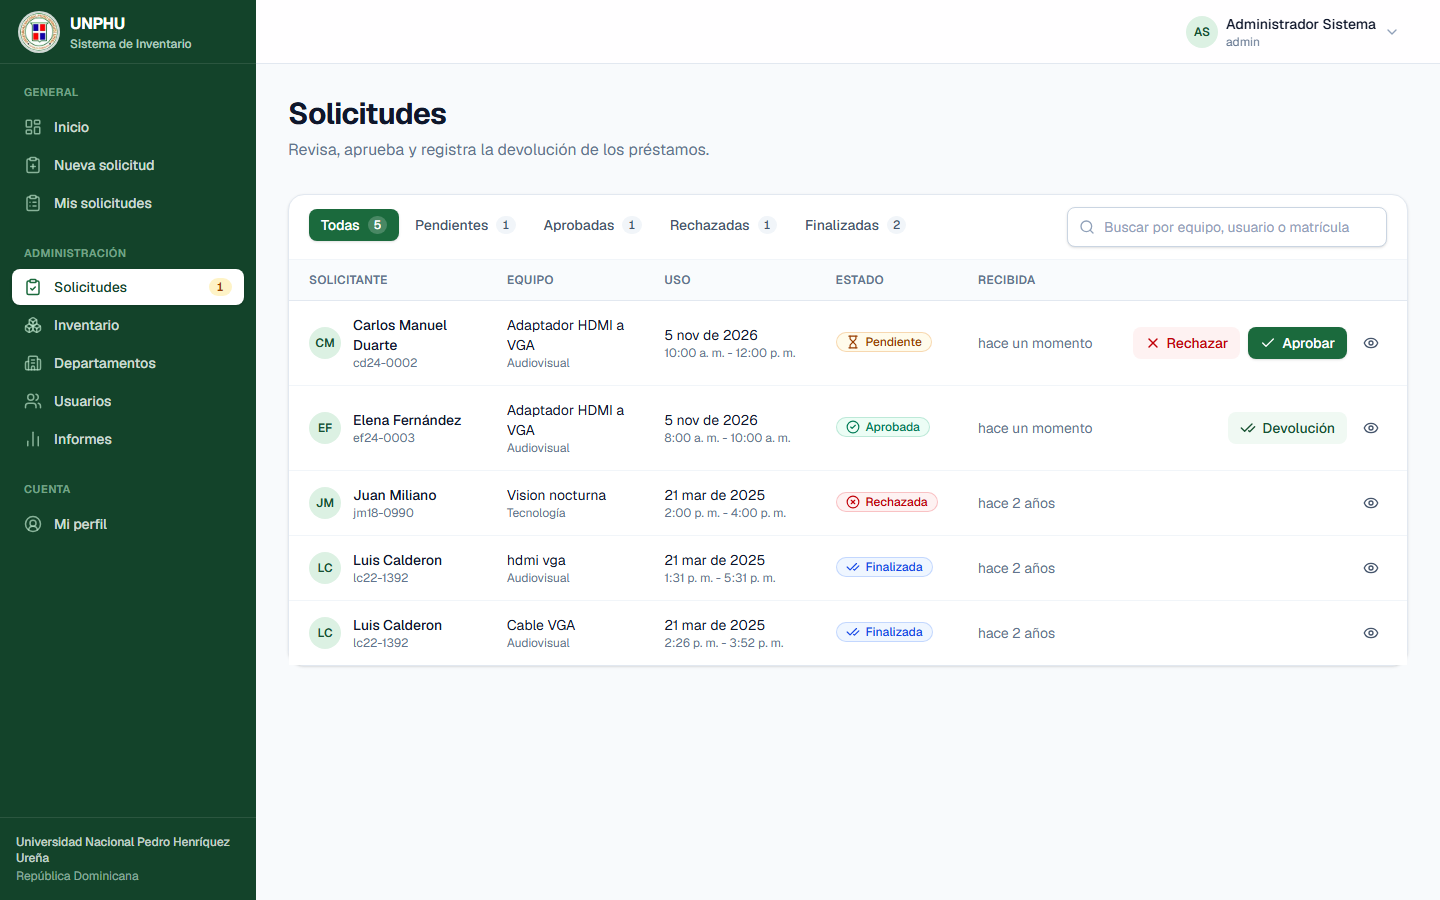
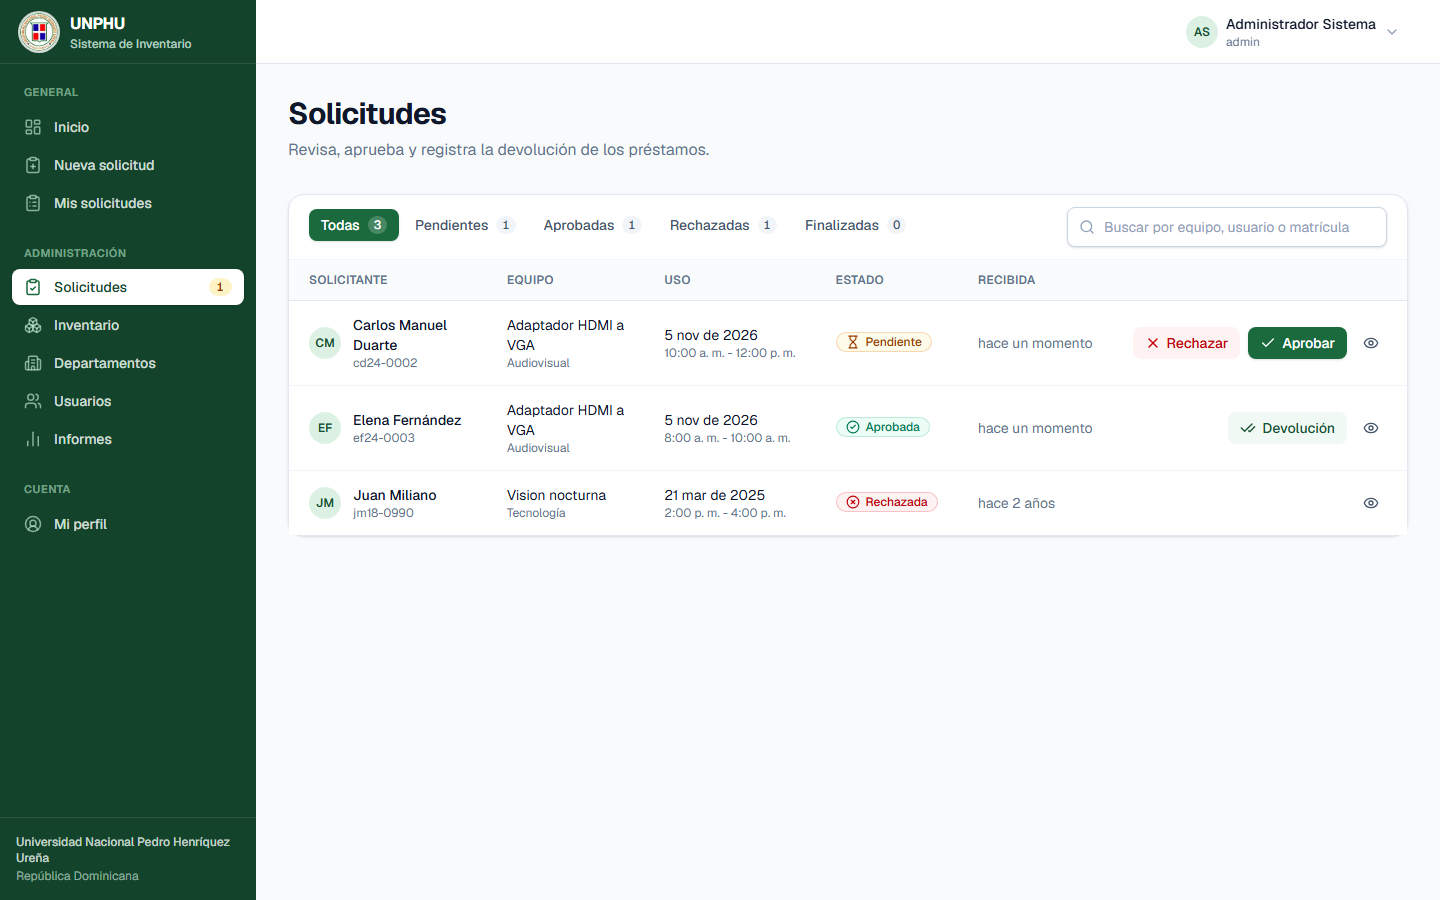
Eliminar usuario de ejemplo Luis Calderon y usar matricula inventada en el login

diff --git a/tests/api/api.test.js b/tests/api/api.test.js
@@ -49,7 +49,7 @@ const item = async (id) => (await db.queryOne('SELECT * FROM items WHERE id = ?'
 describe('base de datos', () => {
   it('se crea con los datos iniciales', async () => {
     const [{ total }] = await db.query('SELECT COUNT(*) AS total FROM usuarios');
-    expect(total).toBe(5);
+    expect(total).toBe(4);
     expect(fs.existsSync(dbFile)).toBe(true);
   });
 
@@ -70,8 +70,8 @@ describe('base de datos', () => {
   });
 
   it('devuelve fechas en formato ISO', async () => {
-    const sol = await db.queryOne('SELECT fecha_solicitud, fecha_uso FROM solicitudes WHERE id = 2');
-    expect(sol.fecha_solicitud).toBe('2025-03-20T17:26:34Z');
+    const sol = await db.queryOne('SELECT fecha_solicitud, fecha_uso FROM solicitudes WHERE id = 4');
+    expect(sol.fecha_solicitud).toBe('2025-03-20T18:06:10Z');
     expect(sol.fecha_uso).toBe('2025-03-21T00:00:00');
   });
 });
@@ -84,7 +84,7 @@ describe('autenticación y permisos', () => {
   });
 
   it('impide a un usuario normal usar rutas de administrador', async () => {
-    loginAs(USERS.luis);
+    loginAs(USERS.estudiante);
     expect((await call(routes.solicitudesAdmin.GET, 'GET', '/api/solicitudes/admin')).status).toBe(403);
     expect((await call(routes.items.POST, 'POST', '/api/items', { body: {} })).status).toBe(403);
     expect((await call(routes.usuarios.GET, 'GET', '/api/usuarios')).status).toBe(403);
@@ -140,7 +140,7 @@ describe('equipos', () => {
   let nuevoId;
 
   it('lista y filtra equipos', async () => {
-    loginAs(USERS.luis);
+    loginAs(USERS.estudiante);
     const all = await call(routes.items.GET, 'GET', '/api/items');
     expect(all.body).toHaveLength(9);
     expect(all.body[0]).toHaveProperty('departamento_nombre');
@@ -180,7 +180,7 @@ describe('equipos', () => {
   it('respeta el estado de mantenimiento', async () => {
     const res = await call(routes.item.PATCH, 'PATCH', '/api/items/9', { id: 9, body: { estado: 'En mantenimiento' } });
     expect(res.body.item.estado).toBe('En mantenimiento');
-    loginAs(USERS.luis);
+    loginAs(USERS.estudiante);
     const sol = await call(routes.solicitudes.POST, 'POST', '/api/solicitudes', {
       body: { item_id: 9, fecha_uso: FUTURE_DATE, hora_inicio: '08:00', hora_fin: '09:00', motivo: 'Clase de prueba' },
     });
@@ -205,9 +205,9 @@ describe('equipos', () => {
   });
 
   it('marca como agotado un equipo con historial', async () => {
-    const res = await call(routes.item.DELETE, 'DELETE', '/api/items/2', { id: 2 });
+    const res = await call(routes.item.DELETE, 'DELETE', '/api/items/7', { id: 7 });
     expect(res.body.status).toBe('soft_delete');
-    expect(await item(2)).toMatchObject({ estado: 'Agotado', cantidad_disponible: 0 });
+    expect(await item(7)).toMatchObject({ estado: 'Agotado', cantidad_disponible: 0 });
   });
 
   it('expone el id del equipo creado para los siguientes casos', () => {
@@ -222,7 +222,7 @@ describe('solicitudes y control de existencias', () => {
   let s2;
 
   it('valida la solicitud', async () => {
-    loginAs(USERS.luis);
+    loginAs(USERS.estudiante);
     const past = await call(routes.solicitudes.POST, 'POST', '/api/solicitudes', { body: { ...base, item_id: 1, fecha_uso: '2000-01-01' } });
     expect(past.status).toBe(400);
     const hours = await call(routes.solicitudes.POST, 'POST', '/api/solicitudes', { body: { ...base, item_id: 1, hora_fin: '09:00' } });
@@ -238,7 +238,7 @@ describe('solicitudes y control de existencias', () => {
     expect(s1).toBeDefined();
     const mine = await call(routes.solicitudes.GET, 'GET', '/api/solicitudes?estado=Pendiente');
     expect(mine.body.map((s) => s.id)).toEqual(expect.arrayContaining([s1, s2]));
-    expect(mine.body.every((s) => s.usuario_id === 2)).toBe(true);
+    expect(mine.body.every((s) => s.usuario_id === 5)).toBe(true);
 
     loginAs(USERS.juan);
     expect((await call(routes.solicitud.GET, 'GET', `/api/solicitudes/${s1}`, { id: s1 })).status).toBe(403);
@@ -246,9 +246,9 @@ describe('solicitudes y control de existencias', () => {
   });
 
   it('las estadísticas cuentan por estado', async () => {
-    loginAs(USERS.luis);
+    loginAs(USERS.estudiante);
     const res = await call(routes.stats.GET, 'GET', '/api/solicitudes/stats');
-    expect(res.body).toMatchObject({ pendientes: 2, finalizadas: 2, total: 4 });
+    expect(res.body).toMatchObject({ pendientes: 2, finalizadas: 0, total: 2 });
   });
 
   it('solo un admin puede cambiar el estado', async () => {
@@ -297,7 +297,7 @@ describe('solicitudes y control de existencias', () => {
   });
 
   it('el dueño solo puede cancelar solicitudes pendientes', async () => {
-    loginAs(USERS.luis);
+    loginAs(USERS.estudiante);
     expect((await call(routes.solicitud.DELETE, 'DELETE', `/api/solicitudes/${s1}`, { id: s1 })).status).toBe(400);
     const pending = (await call(routes.solicitudes.POST, 'POST', '/api/solicitudes', { body: { ...base, item_id: 1 } })).body.id;
     const res = await call(routes.solicitud.DELETE, 'DELETE', `/api/solicitudes/${pending}`, { id: pending });
@@ -315,15 +315,15 @@ describe('solicitudes y control de existencias', () => {
   });
 
   it('el listado de administración filtra y busca', async () => {
-    const res = await call(routes.solicitudesAdmin.GET, 'GET', '/api/solicitudes/admin?estado=Finalizada&q=calderon');
+    const res = await call(routes.solicitudesAdmin.GET, 'GET', '/api/solicitudes/admin?estado=Rechazada&q=miliano');
     expect(res.body.length).toBeGreaterThan(0);
-    expect(res.body.every((s) => s.estado === 'Finalizada' && s.usuario_apellido === 'Calderon')).toBe(true);
+    expect(res.body.every((s) => s.estado === 'Rechazada' && s.usuario_apellido === 'Miliano')).toBe(true);
   });
 });
 
 describe('departamentos', () => {
   it('lista con resumen de inventario', async () => {
-    loginAs(USERS.luis);
+    loginAs(USERS.estudiante);
     const res = await call(routes.departamentos.GET, 'GET', '/api/departamentos');
     expect(res.body[0]).toHaveProperty('total_items');
     expect(res.body[0]).toHaveProperty('unidades_disponibles');
@@ -353,9 +353,9 @@ describe('departamentos', () => {
 describe('usuarios y perfil', () => {
   it('lista usuarios con su actividad', async () => {
     loginAs(USERS.admin);
-    const res = await call(routes.usuarios.GET, 'GET', '/api/usuarios?q=calderon');
+    const res = await call(routes.usuarios.GET, 'GET', '/api/usuarios?q=miliano');
     expect(res.body).toHaveLength(1);
-    expect(res.body[0]).toMatchObject({ matricula: 'lc22-1392' });
+    expect(res.body[0]).toMatchObject({ matricula: 'jm18-0990' });
     expect(res.body[0]).not.toHaveProperty('password');
   });
 
@@ -370,9 +370,9 @@ describe('usuarios y perfil', () => {
   });
 
   it('actualiza el perfil propio', async () => {
-    loginAs(USERS.luis);
-    const res = await call(routes.perfil.PATCH, 'PATCH', '/api/perfil', { body: { nombre: 'Luis Alberto', apellido: 'Calderon' } });
-    expect(res.body.perfil.nombre).toBe('Luis Alberto');
+    loginAs(USERS.estudiante);
+    const res = await call(routes.perfil.PATCH, 'PATCH', '/api/perfil', { body: { nombre: 'Mario Andrés', apellido: 'Mesa' } });
+    expect(res.body.perfil.nombre).toBe('Mario Andrés');
     expect(res.body.perfil).not.toHaveProperty('password');
     expect((await call(routes.perfil.PATCH, 'PATCH', '/api/perfil', { body: { nombre: '', apellido: 'X' } })).status).toBe(400);
   });
@@ -408,6 +408,6 @@ describe('informes y resumen', () => {
   it('el resumen del panel incluye todas las secciones', async () => {
     const res = await call(routes.resumen.GET, 'GET', '/api/admin/resumen');
     expect(Object.keys(res.body)).toEqual(expect.arrayContaining(['solicitudes', 'inventario', 'usuarios', 'departamentos', 'pendientesRecientes', 'stockBajo']));
-    expect(res.body.usuarios.total).toBe(6);
+    expect(res.body.usuarios.total).toBe(5);
   });
 });

diff --git a/tests/api/helpers.js b/tests/api/helpers.js
@@ -4,7 +4,7 @@ import { getServerSession } from 'next-auth/next';
 export const USERS = {
   admin: { id: '1', name: 'Administrador Sistema', email: 'admin@unphu.edu.do', matricula: 'admin', role: 'admin' },
   superadmin: { id: '3', name: 'Super Admin', email: 'superadmin@unphu.edu.do', matricula: 'superadmin', role: 'admin' },
-  luis: { id: '2', name: 'Luis Calderon', email: 'lc22-1392@unphu.edu.do', matricula: 'lc22-1392', role: 'usuario' },
+  estudiante: { id: '5', name: 'Mario Mesa', email: 'mariomesa@unphu.edu.do', matricula: 'mariomesa', role: 'usuario' },
   juan: { id: '4', name: 'Juan Miliano', email: 'jm18-0990@unphu.edu.do', matricula: 'jm18-0990', role: 'usuario' },
 };
 

diff --git a/tests/unit/format.test.js b/tests/unit/format.test.js
@@ -35,8 +35,8 @@ describe('format', () => {
   });
 
   it('nombres, iniciales y plurales', () => {
-    expect(fullName({ nombre: 'Luis', apellido: 'Calderon' })).toBe('Luis Calderon');
-    expect(initials('Luis Calderon')).toBe('LC');
+    expect(fullName({ nombre: 'Ana', apellido: 'Rosario' })).toBe('Ana Rosario');
+    expect(initials('Ana Rosario')).toBe('AR');
     expect(initials('')).toBe('');
     expect(pluralize(1, 'equipo')).toBe('1 equipo');
     expect(pluralize(3, 'equipo')).toBe('3 equipos');

diff --git a/src/app/auth/login/page.js b/src/app/auth/login/page.js
@@ -75,7 +75,7 @@ function LoginForm() {
         )}
         {formError && <Alert tone="error">{formError}</Alert>}
 
-        <Field label="Matrícula" error={errors.matricula} hint="Por ejemplo: lc22-1392">
+        <Field label="Matrícula" error={errors.matricula} hint="Por ejemplo: ab24-0001">
           {({ id, describedBy }) => (
             <Input
               id={id}

diff --git a/tests/unit/validation.test.js b/tests/unit/validation.test.js
@@ -6,7 +6,7 @@ import {
 
 describe('normalizeMatricula', () => {
   it('quita el dominio, espacios y mayúsculas', () => {
-    expect(normalizeMatricula('  LC22-1392@unphu.edu.do ')).toBe('lc22-1392');
+    expect(normalizeMatricula('  AB24-0001@unphu.edu.do ')).toBe('ab24-0001');
     expect(normalizeMatricula(undefined)).toBe('');
   });
 });

diff --git a/tests/e2e/05-calidad.spec.js b/tests/e2e/05-calidad.spec.js
@@ -16,7 +16,7 @@ const PANEL = [
   '/dashboard/admin/departamentos',
   '/dashboard/admin/usuarios',
   '/dashboard/admin/informes',
-  '/dashboard/solicitudes/2',
+  '/dashboard/solicitudes/4',
 ];
 
 async function checkPage(page, url, errors) {
